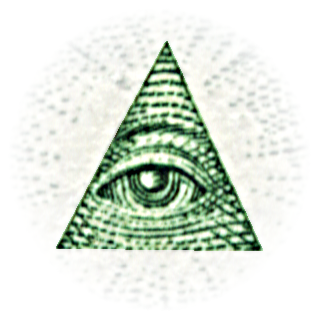
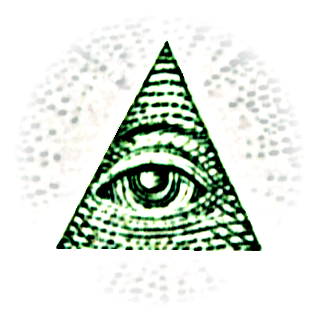
chaotic demomaking

diff --git a/sceneSpace/Space.js b/sceneSpace/Space.js
@@ -10,7 +10,7 @@ uniform float timePercent;
 uniform float time;// = 21.0;
 //uniform vec4 color;// = vec4(1);
 uniform float amp; // = .37;
-
+uniform float alphaValue; // =.5
 float random(in vec2 p) {
   return fract(cos(dot(p,
       vec2(16.12327, 27.4725))) *
@@ -120,12 +120,13 @@ void drawTrails() {
   coord = vec2(timePercent, coord.y);
   vec4 pixel2 = texture(map, coord);
 
-  gl_FragColor = min(pixel+pixel2, vec4(1.0));
+  gl_FragColor = min(pixel+pixel2, vec4(0.6));
   //gl_FragColor.a = 1.0-vMapUv.y;
   drawClouds();
   float fadeTrail = 0.3+0.1*cos(vMapUv.s*50.0 + time*2.3);
   if (vMapUv.y > fadeTrail) {gl_FragColor.a = 1.0-min((vMapUv.y-fadeTrail)/(1.0-fadeTrail)*2.,1.0);}
   //if (gl_FragColor.g < 0.1) { gl_FragColor.a = gl_FragColor.g/0.1; discard; }
+  gl_FragColor.a *= .55;
   gl_FragColor.rgb = min(gl_FragColor.rgb*1.0, vec3(1.0));
 }
     `,
@@ -139,20 +140,21 @@ void drawTrails() {
     this.loader.addAnimation({
       object: "spectogram.png",
       shape: { type: 'SPHERE', radius: 1.0 },
-      color: [{a:1.0}],
+      color: [{a:0.15}],
       position:[{
-        x:-.2,
-        y:0,
-        z:6.0
+        x:-.1,
+        y:-.205,
+        z:8.5
       }],
-      scale:[{z:1.5-i*0.2,x:1.5-i*0.2,y:5.5}],
+      scale:[{z:0.1+i*0.20,x:1.5-i*0.2,y:7.5}],
       "angle":[{
-        "degreesY":()=>i*20,
+        "degreesY":0,
         "degreesX":90,
         "degreesZ":0
       }],
       //angle: [{degreesY:()=>2,degreesX:()=>1}],
-      shader:{...trailShader,variable:[{name:"amp",value:[()=>0.37+Math.sin(getSceneTimeFromStart()*1)*0.005]}]}
+      shader:{...trailShader,variable:[{
+          name:"amp",value:[()=>.65+Math.sin(getSceneTimeFromStart()*15)*0.1]}]}
     });
   }
 }
@@ -501,7 +503,8 @@ Demo.prototype.addPlanetRings = function(startTime,duration,parentId,r,g,b) {
 Demo.prototype.sceneSpace = function () {
 
   this.setScene('space');
-  this.addEffectStarfield(Sync.get('Starfield:Speed'));
+  this.addSkysphere();
+  this.addEffectStarfield(0, 8.75*window.pattern+1*window.biitti, 5000, "multiSceneEffects/star.png", 500, 1.7);
   this.addHandFlyTrail();
 
   Utils.setSeed(8199);
@@ -528,22 +531,22 @@ Demo.prototype.sceneSpace = function () {
 
   let particleImages = [
     "multiSceneEffects/tex_explosionGeneric.png",        
-    "sceneCatBattle/tex_temp_cat.png",
+    "multiSceneEffects/tex_lilith.png",
+    "multiSceneEffects/tex_boom.png",
     "multiSceneEffects/tex_allseeingparticle.png",
     "multiSceneEffects/tex_pentagram.png",
-    "sceneCatBattle/tex_temp_cat.png",
-    "sceneCatBattle/tex_temp_cat.png",
+    "multiSceneEffects/tex_battlecat.png",
     "multiSceneEffects/tex_explosionGeneric.png"
   ]
 
   let particleSizes = [
-    1.5,
-    1.0,
+    3.0,
     2.0,
-    1.0,
-    1.0,
-    1.0,
     1.5,
+    3.0,
+    1.2,
+    1.3,
+    3.5,
   ]
   this.addEffectPlanetExplosion(explosionTimes[0],8*beat,0, planetColors[0],planetColors[1],planetColors[2], particleImages[0], particleSizes[0], 2.0);
   

diff --git a/sceneTree/Tree.js b/sceneTree/Tree.js
@@ -157,13 +157,20 @@ let treeChildId = 0;
 let initBranches = 6;
 Demo.prototype.addEffectGrowingTree = function () {
 
+  this.loader.addAnimation({
+    "id":"nullak"
+   ,"object":null
+   ,"position":[{"x":1 ,"y":-1.75,"z":1}]
+   ,"scale":[{"uniform3d":1.0}]
+   ,"angle": [{"degreesY":()=>2*Math.sin(getSceneTimeFromStart()),"degreesZ":()=>2*Math.sin(1.3*getSceneTimeFromStart())}]
+ });
 
   this.loader.addAnimation({
     "id":"nulltree"
    ,"object":null
    ,"position":[{"x":1 ,"y":-1.75,"z":1}]
    ,"scale":[{"uniform3d":4.0}]
-   ,"angle": [{"degreesY":0,"degreesZ":0,"degreesX":-25}]
+   ,"angle": [{"degreesY":()=>2*Math.sin(getSceneTimeFromStart()),"degreesZ":()=>2*Math.sin(1.3*getSceneTimeFromStart()),"degreesX":-25}]
  });
 
  this.treeBranch(initBranches,"nulltree", 0.0,2, 4.0);
@@ -273,7 +280,7 @@ Demo.prototype.addTreeParticles = function (akSpawnTimes, akSpawnPos) {
       parent: "treeParticles"+parentId,
       "perspective": "3d",
       "billboard": true,
-      "scale":[{"uniform3d":0.3+Math.random()*0.5}],
+      "scale":[{"uniform3d":0.5+Math.random()*0.5}],
       "material":{transparent:true, blending:'AdditiveBlending'},
       "position":[{x:stars[i].x1,y:stars[i].y1,z:stars[i].z1},{duration:akSpawnTimes[parentId]*biitti,x:akSpawnPos[parentId*3+0],y:akSpawnPos[parentId*3+1]-baseY,z:akSpawnPos[parentId*3+2]}],
       "color":[{a:()=>(Math.sin(i+getSceneTimeFromStart()*2.5)+1)/2*0.45},{duration:akSpawnTimes[parentId]*biitti,a:0.1},{duration:biitti,a:0.0}],
@@ -362,6 +369,8 @@ Demo.prototype.sceneTreeGrow = function () {
    ,"scale":[{"uniform3d":1.0}]
   }]);
 
+ 
+
   let akSpawnTimes = [
     4*8,
     4*8+2,
@@ -373,7 +382,7 @@ Demo.prototype.sceneTreeGrow = function () {
     6*8+2,
     6*8+4];
 
-    
+  let parentPos = [1, -1.75, 1];
   let akSpawnPos = [
       .75, 2.9,1.15,
     1.3, 4.1, .45,
@@ -394,18 +403,20 @@ Demo.prototype.sceneTreeGrow = function () {
   for(let i=0;i<akSpawnPos.length/3;i++)
   {
     this.loader.addAnimation([{
+      "parent":"nullak",
       "start": akSpawnTimes[i]*biitti, "duration": 4*8*window.biitti,
       "object":{
         "name":"multiSceneEffects/obj_ak.obj"
       }
     ,"position":[{
-        "x":akSpawnPos[i*3],
-        "y":akSpawnPos[i*3+1],
-        "z":akSpawnPos[i*3+2]
+        "x":akSpawnPos[i*3] - parentPos[0],
+        "y":akSpawnPos[i*3+1] - parentPos[1],
+        "z":akSpawnPos[i*3+2] - parentPos[2]
       }]
     ,"angle":[{
         "degreesZ":Utils.random()*90-45,
-        "degreesY":Utils.random()*360
+        "degreesY":Utils.random()*360,
+        "degreesX":()=>2*Math.sin(5*getSceneTimeFromStart())
         }]
         ,"scale":[{"uniform3d":0.0}
           ,{"duration":1.5*biitti,
@@ -434,4 +445,6 @@ Demo.prototype.sceneTreeGrow = function () {
     }
 
     this.addTreeParticles(akSpawnTimes, akSpawnPos);
+
+
 }

diff --git a/sceneSkull/Skull.js b/sceneSkull/Skull.js
@@ -1,7 +1,14 @@
 Demo.prototype.sceneSkullCat = function () {
   this.setScene('main');
+  let startTime = 34.75*window.pattern;
   this.loader.addAnimation({fbo:{name:'skullCarBackgroundFbo',action:'begin',storeDepth:false}});
+
+
+  // pattern 1
+  this.addEffectStarfield(startTime,1*window.pattern, 1000, "multiSceneEffects/star.png", 50, 1.7);
+
   this.loader.addAnimation({
+    "start":startTime, "duration":1*window.pattern,
     "image": ["sceneSkull/tex_hypnopenta.png"],
     "textureProperties": [{minFilter: 'LinearFilter', magFilter: 'LinearFilter'}],
     "scale":[{"uniform2d":3.0}]
@@ -10,6 +17,52 @@ Demo.prototype.sceneSkullCat = function () {
 	  }]
     ,"color": [{
       "r": 1.0, "g": 0.3, "b": 0.05
+    }]
+  });
+
+  // pattern 2
+
+
+  this.loader.addAnimation({
+    "start":startTime+1*window.pattern, "duration":1*window.pattern,
+    "image": ["multiSceneEffects/tex_allseeingparticle.png"],
+    "textureProperties": [{minFilter: 'LinearFilter', magFilter: 'LinearFilter'}],
+    "scale":[{"uniform2d":5.0}]
+    ,"angle":[{
+      "degreesZ":()=>getSceneTimeFromStart()*155
+	  }]
+    ,"color": [{
+      "r": 0.20, "g": 0.90, "b": 0.15
+    }]
+  });
+
+  // pattern 3
+  this.addEffectStarfield(startTime+2*window.pattern,1*window.pattern, 1000, "multiSceneEffects/tex_battlecat.png", 50, 0.1);
+  this.loader.addAnimation({
+    "start":startTime+2*window.pattern, "duration":1*window.pattern,
+    "image": ["multiSceneEffects/tex_lilith.png"],
+    "textureProperties": [{minFilter: 'LinearFilter', magFilter: 'LinearFilter'}],
+    "scale":[{"uniform2d":4.0}]
+    ,"angle":[{
+      "degreesZ":()=>getSceneTimeFromStart()*155
+	  }]
+    ,"color": [{
+      "r": 0.8, "g": 0.0, "b": 0.9
+    }]
+  });
+
+  // pattern 4
+
+  this.loader.addAnimation({
+    "start":startTime+3*window.pattern, "duration":1*window.pattern,
+    "image": ["multiSceneEffects/tex_nuke.png"],
+    "textureProperties": [{minFilter: 'LinearFilter', magFilter: 'LinearFilter'}],
+    "scale":[{"uniform2d":3.0}]
+    ,"angle":[{
+      "degreesZ":()=>getSceneTimeFromStart()*155
+	  }]
+    ,"color": [{
+      "r": 1.0, "g": 0.66, "b": 0.2
     }]
   });
   this.loader.addAnimation({fbo:{name:'skullCarBackgroundFbo',action:'unbind',storeDepth:false}});

diff --git a/multiSceneEffects/EffectStarfield.js b/multiSceneEffects/EffectStarfield.js
@@ -1,3 +1,4 @@
+
 Demo.prototype.addSkysphere = function () {
   const skyColor = 0.20;
   this.loader.addAnimation({
@@ -16,13 +17,13 @@ Demo.prototype.addSkysphere = function () {
   });
 }
 
-Demo.prototype.addEffectStarfield = function () {
-  this.addSkysphere();
+Demo.prototype.addEffectStarfield = function (startTime, durationTime, amountOfParticles, texture, areaSize, particleSize) {
+
 
   const recalcThreshold = 0.1;
 
-  let stars = new Array(5000);
-  const size = 500;
+  let stars = new Array(amountOfParticles);
+  const size = areaSize;
   for (let i = 0; i < stars.length; i++) {
     let z1 = Math.random()
     stars[i] = {
@@ -34,7 +35,8 @@ Demo.prototype.addEffectStarfield = function () {
   }
 
   this.loader.addAnimation({
-    "image": "multiSceneEffects/star.png",
+    "start":startTime, "duration":durationTime,
+    "image": texture,
     "perspective": "3d",
     "billboard": true,
     "additive": true,
@@ -49,7 +51,7 @@ Demo.prototype.addEffectStarfield = function () {
         let object = properties.object;
         let color = properties.color;
 
-        const scale = 1.7;
+        const scale = particleSize;
         object.scale.x = scale;
         object.scale.y = scale;
         object.scale.z = scale;   

diff --git a/sceneEarthHit/earthHit.js b/sceneEarthHit/earthHit.js
@@ -1,6 +1,7 @@
 Demo.prototype.sceneEarthHit = function () {
     this.setScene('earthHit');
-    this.addEffectStarfield();
+    this.addSkysphere();
+    this.addEffectStarfield(0, 3*window.pattern, 5000, "multiSceneEffects/star.png", 500, 1.7);
 
     this.loader.addAnimation({
       "id":"explosionParent"
@@ -9,6 +10,26 @@ Demo.prototype.sceneEarthHit = function () {
      ,"scale":[{"uniform3d":1.0}]
      ,"angle": [{"degreesY":0,"degreesZ":-45,"degreesX":0}]
    });
+
+   this.loader.addAnimation({
+    "parent":"explosionParent",
+    "start":window.biitti*8,
+    "additive":true,
+    "billboard":true,
+    "perspective":"3d",
+    "image": ["multiSceneEffects/tex_nuke.png"],
+    "textureProperties": [{minFilter: 'LinearFilter', magFilter: 'LinearFilter'}],
+    "scale":[{"uniform3d":0.0}
+      ,{"duration":10,"uniform3d":2}
+    ]
+    ,"position":[{"x":0,"y":.5,"z":0}
+      ,{"duration":10,"y":1.5}
+    ]
+
+    ,"color": [{
+      "r": 1.0, "g": 0.66, "b": 0.2
+    }]
+  });
 
     this.addEffectExplosion(
       "multiSceneEffects/tex_explosionGeneric.png",

diff --git a/Demo.js b/Demo.js
@@ -40,9 +40,10 @@ end
     sydän missä lukee jumalauta ja sydämessä mp5 kuten amorin nuoli
 */
 const deg2rad = 0.01745329251;
-var camPos = window.camPos = [0.0,0.0,0.0];
-var camPosLength = window.camPosLength = 1.0;
-const biitti = window.biitti = 60/120;
+window.camPos = [0.0,0.0,0.0];
+window.camPosLength = 1.0;
+window.biitti = 60/120;
+window.pattern = window.biitti*8;
 
 includeFile('multiSceneEffects/PostProcess.js');
 includeFile('multiSceneEffects/EffectStarfield.js');

diff --git a/sceneIntro/Intro.js b/sceneIntro/Intro.js
@@ -1,7 +1,8 @@
 
 Demo.prototype.sceneIntro = function () {
   this.setScene('intro');
-  this.addEffectStarfield();
+  this.addSkysphere();
+  this.addEffectStarfield(0, 8*window.pattern, 5000, "multiSceneEffects/star.png", 500, 1.7);
 
   this.loader.addAnimation([{
     "duration":12.1,
